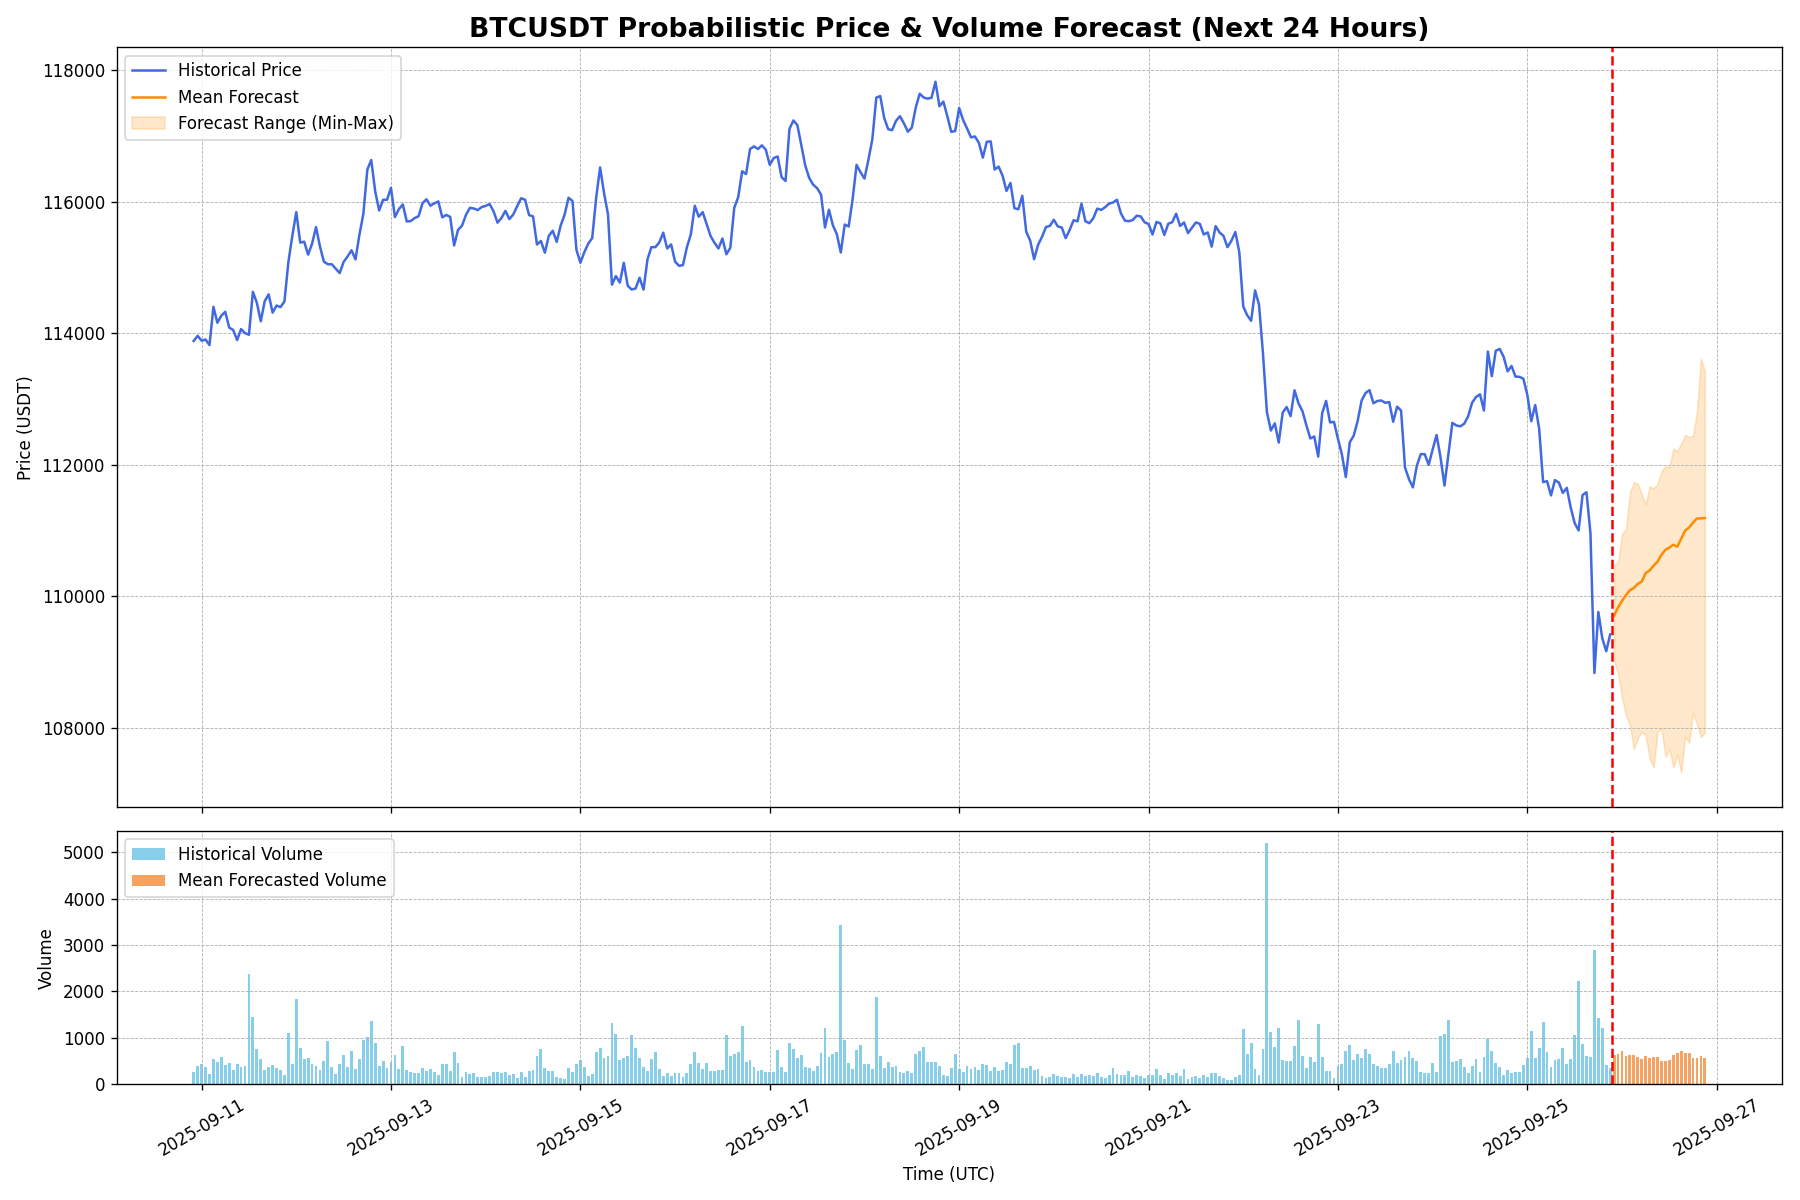
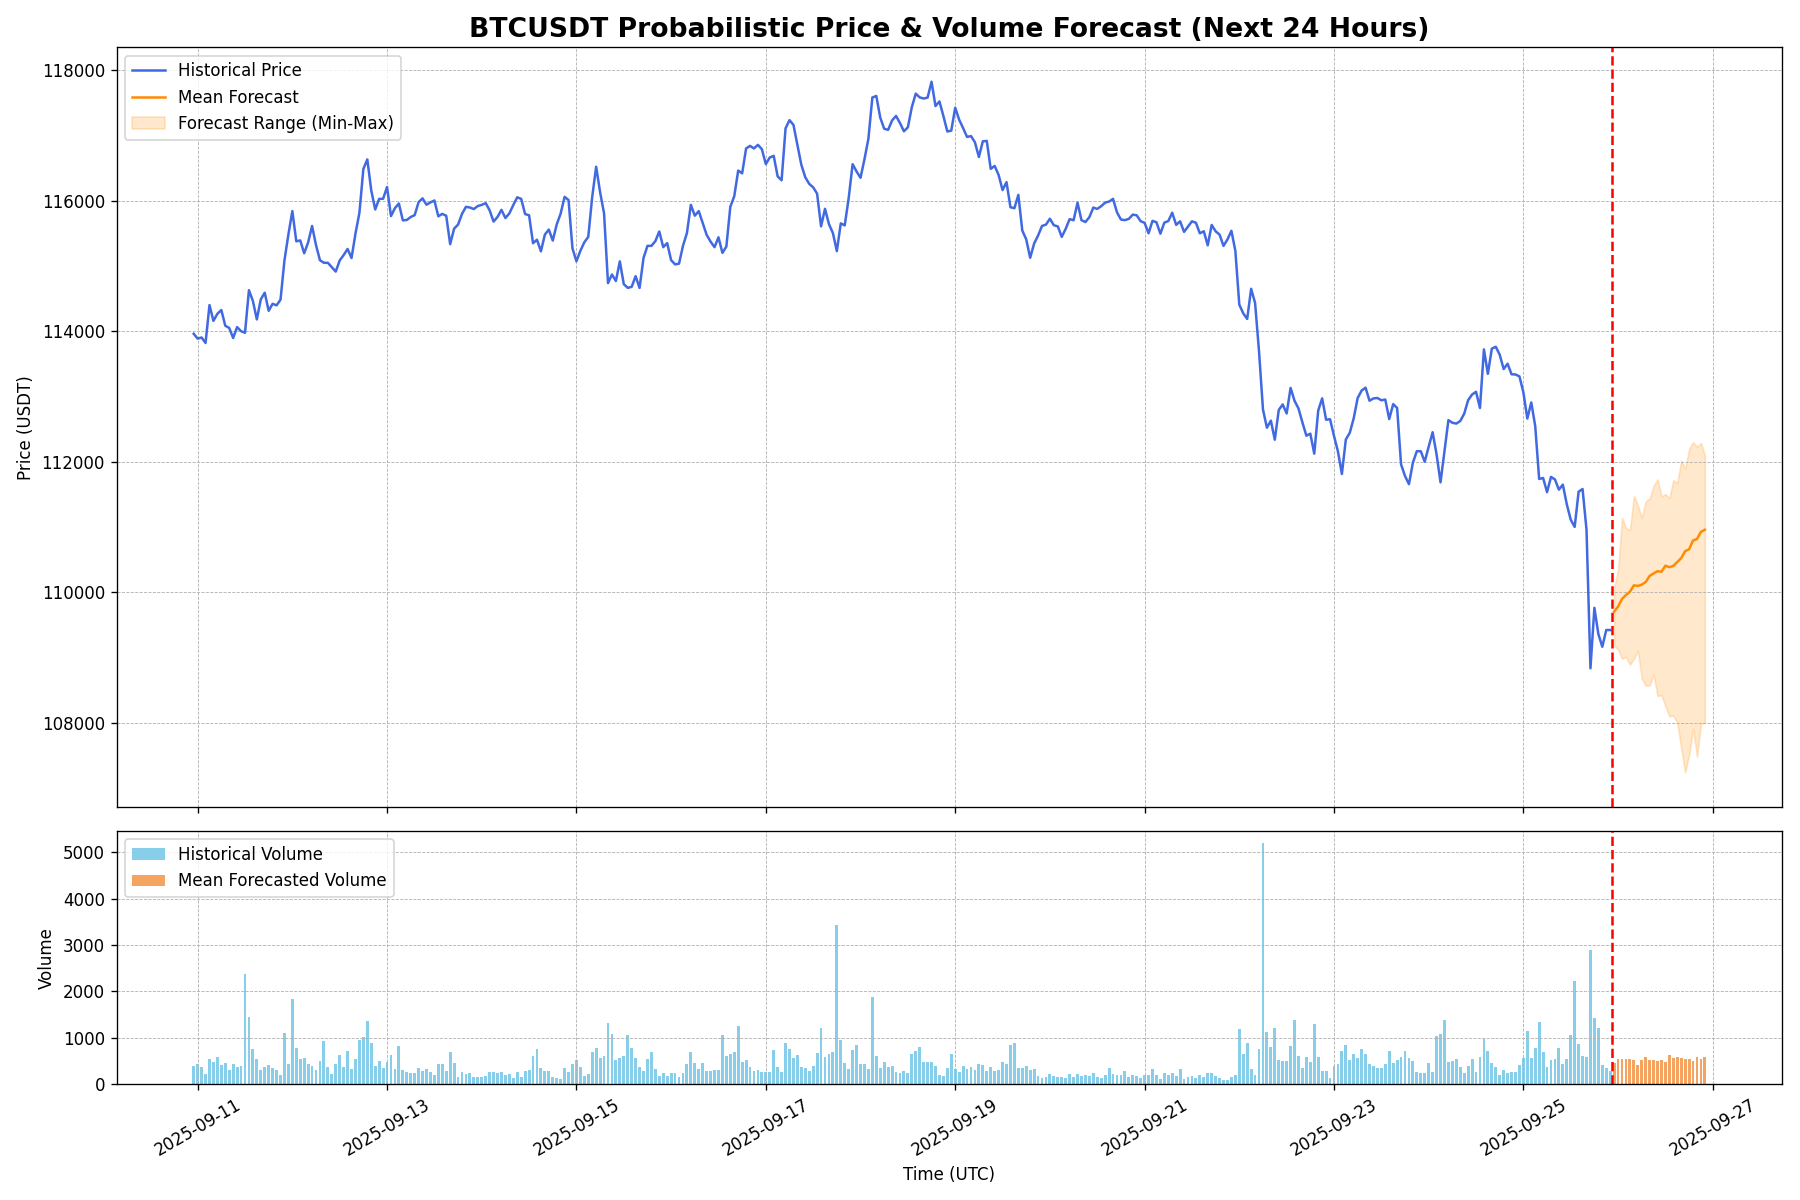
Auto commit

diff --git a/index.html b/index.html
@@ -286,14 +286,14 @@
         <section id="live-dashboard">
             <h2>BTC/USDT实时AI预测</h2>
             <div class="metadata">
-                <span>更新时间: <strong id="update-time">2025-09-25 22:00:20</strong>（北京时间+8小时）</span>
+                <span>更新时间: <strong id="update-time">2025-09-25 23:00:22</strong>（北京时间+8小时）</span>
                 <span>数据来源: 币安 | 1小时数据</span>
             </div>
 
             <div class="metrics-container">
                 <div class="metric-card">
                     <h3>未来12小时上涨概率</h3>
-                    <p class="metric-value" id="upside-prob">96.7%</p>
+                    <p class="metric-value" id="upside-prob">93.3%</p>
                 </div>
                 <div class="metric-card">
                     <h3>未来12小时波动率</h3>
